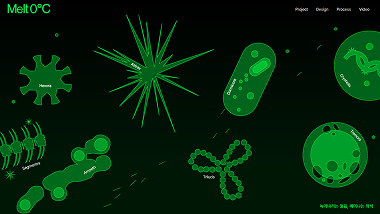
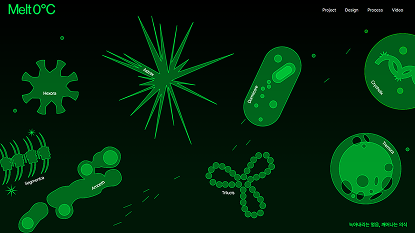
Updates

diff --git a/assets/index-Vsd_oKZ1.css b/assets/index-Vsd_oKZ1.css
@@ -1,0 +1,1 @@
+*{margin:0;padding:0;box-sizing:border-box}h1,h2,h3,h4,h5,h6,p,ul,ol,dl{margin:0;padding:0}a{text-decoration:none;color:inherit}.scroll::-webkit-scrollbar{display:none}:root{font-family:Pretendard Variable;text-rendering:optimizeLegibility;-webkit-font-smoothing:antialiased;-moz-osx-font-smoothing:grayscale}body{margin:0;min-width:320px;min-height:100vh}#root{position:relative;display:flex;width:100%;padding:0;margin:0}body{width:100%;min-height:100vh;margin:0;padding:0;background-color:#101010}header{display:flex;flex-direction:column;position:fixed;width:16.25rem;height:100%;padding:1rem 3rem;align-items:center;justify-content:space-around;background-color:#000;color:#fff}nav{display:block;font-weight:500;font-size:1.25rem;text-align:center}nav a{display:block;margin:3.5rem 0;text-decoration:none;color:#fefefe}header a:hover{color:#00ffc3}.home-title{margin-top:4rem;margin-bottom:3.5rem}h2{font-size:2.5rem}p{font-size:1.25rem;font-weight:400;color:#2b2b2b}.card{padding:2em}.read-the-docs{color:#888}main{width:100%;flex-grow:1;overflow-y:auto;text-align:center}.menu{display:flex;width:11rem;justify-content:space-between;align-items:center}.navButton{width:3rem;height:3rem;border-radius:50%;border:1px solid #969696;color:#969696;text-align:center;font-size:1rem;font-weight:400}.navButton:hover{border:1px solid #ffffff;color:#fff}.resume-section{margin-left:16.25rem;width:103rem}.title{margin-top:6rem;margin-bottom:6rem}.title h2{margin-bottom:1rem;font-size:2rem;font-weight:600;color:#fc0}.title span{margin-bottom:6rem;font-size:1.25rem;font-weight:400;color:#fff}.resume-container h3{margin-bottom:.5rem;font-size:1.5rem;font-weight:600;color:#00ffc3}.education,.activity,.work,.certificate{margin-bottom:3rem}.education-box,.activity-box,.work-box,.certificate-box{padding:2.125rem 1.5rem;border-left:2px solid #00FFC3}.resume-container{display:flex;width:62.25rem;margin:0 auto;justify-content:space-between}.resume-container-left,.resume-container-right{width:23.125rem;text-align:left}.resume-container dl dt{font-size:1.25rem;font-weight:400;color:#fff}.add-info{font-size:1rem;font-weight:300;color:#bfbfbf}.info-date{font-size:1rem;font-weight:300;color:#fff}.info-gap{margin-bottom:1.875rem}.project-card{width:415px;height:415px;border-radius:15px;overflow:hidden;background-color:#1d1d1d}.project-card:hover{box-shadow:0 0 10px #00ffc3}.project-thumbnail{width:415px;height:234px;background-color:#000}.project-thumbnail img{width:100%;opacity:.7}.project-info{position:relative;padding:20px 25px 25px 20px;text-align:left}.project-info .title-row{display:flex;justify-content:space-between;margin-bottom:1rem}.title-row h3{font-size:1.5rem;font-weight:600;color:#fff}.project-period{font-size:.85rem;line-height:1;color:#cfcfcf}.project-subtitle{font-size:1.1rem;color:#6e6e6e}.tag-list{position:absolute;top:132px}.tag-item{display:inline-block;margin-right:.5rem;padding:5px 10px;font-size:.85rem;color:#fff;border:1px solid #fff;border-radius:5px}.portfolio-section{padding:50px 0}.project-grid-container{display:grid;grid-template-columns:repeat(3,1fr);gap:30px;margin:0 auto 50px;padding:0 20px}@media (max-width: 1024px){.project-grid-container{grid-template-columns:repeat(2,1fr)}}@media (max-width: 600px){.project-grid-container{grid-template-columns:1fr}}.home-section,.about-section,.skills-section,.project-section,.contact-section{margin-left:13.54%;width:86.46%}.logo_svg{animation:logo 4s ease-in-out infinite alternate;transform-origin:50% 50%}@keyframes logo{0%{transform:rotate(0) translate(0) translateY(0)}15%{transform:rotate(35deg) translate(7px) translateY(-5px)}30%{transform:rotate(-25deg) translate(-8px) translateY(3px)}45%{transform:rotate(15deg) translate(4px) translateY(8px)}60%{transform:rotate(-40deg) translate(-10px) translateY(-8px)}75%{transform:rotate(20deg) translate(6px) translateY(2px)}to{transform:rotate(0) translate(0) translateY(0)}}.title h2{color:#fc0;margin-bottom:1rem}.title p{font-size:1.25rem;color:#fff}.home-section{height:62.5rem}.main-title{padding:25vh 10vw}.main-title .main-keyword{display:block;margin-bottom:64px;color:#fc0;font-size:8rem;font-weight:700;text-align:left;letter-spacing:1}.main-title .main-name{display:block;color:#fc0;font-size:6rem;font-weight:700;text-align:left;letter-spacing:1}.main-title .main-job{display:block;margin-bottom:64px;color:#fff;font-size:5rem;font-weight:400;text-align:right;letter-spacing:1}.home-title h2{margin-bottom:1rem;font-size:2rem;font-weight:600;color:#00ffc3}.home-title p{font-size:1.25rem;font-weight:400;color:#fff}.about-section{display:flex;flex-direction:column;height:62.5rem;justify-content:center;align-items:center;text-align:center}.about-section h2{margin-bottom:5.5rem;font-size:2.5rem;font-weight:700;line-height:1.5}.about-section h2 .text{display:block;color:#fff}.about-section h2 .text-name{color:#fc0}.about-section h2 .text-em{color:#00ffc3}.buttons{display:flex;width:42rem;justify-content:space-between}.aboutButton{width:12rem;height:3rem;border-radius:.625rem;text-align:center;font-size:1.5rem;background-color:#363636;color:#fff;line-height:3rem}.skills-section{display:flex;flex-direction:column;height:62.5rem}.skills-box{width:100px;height:100px;background-color:#1d1d1d;border-radius:15px}.skill-icon.html{color:#e44d26}.skill-icon.css{color:#1572b6}.skill-icon.js{color:#f7df1e}.skill-icon.react{color:#61dafb}.project-section,.contact-section{display:flex;flex-direction:column;height:62.5rem}.modal-backdrop{display:flex;position:fixed;top:0;left:0;width:100vw;height:100vh;background-color:#00000080;align-items:center;justify-content:center;z-index:1000}.modal-content{position:relative;width:1321px;height:764px;padding:60px;border-radius:20px;background-color:#1d1d1d;color:#fff;overflow-y:auto}.modal-close-button{position:absolute;top:30px;right:30px;font-size:2rem;color:#fff}.modal-top-info{display:flex;justify-content:space-between;margin-bottom:40px}.infoContent{width:610px}.projectTitle{font-size:2rem;color:#fff;margin-bottom:18px}.subtitle{font-size:1.15rem;color:#848484;margin-bottom:18px}.projectInfo{font-size:1rem;color:#fff;line-height:1.8;margin-bottom:18px}.modal-tag-list{margin-bottom:18px}.modal-tag-item{display:inline-block;margin-right:.5rem;padding:5px 10px;font-size:.85rem;color:#fff;border:1px solid #fff;border-radius:5px}.bottomInfo{display:flex;justify-content:space-between}.projectDate,.projectType,.projectMembers,.projectLink{display:flex;flex-direction:column}.bottom_title{font-size:1.25rem;font-weight:700;margin-bottom:1rem;color:#fff;margin-bottom:1.25rem}.bottom_subtitl{font-size:1rem;font-weight:700;margin-bottom:1rem;color:#fff}

diff --git a/index.html b/index.html
@@ -24,8 +24,8 @@
         }
       }(window.location))
     </script>
-    <script type="module" crossorigin src="/react-portfolio/assets/index-NJPRTG5q.js"></script>
-    <link rel="stylesheet" crossorigin href="/react-portfolio/assets/index-BftPr2MY.css">
+    <script type="module" crossorigin src="/react-portfolio/assets/index-CaXVkq0T.js"></script>
+    <link rel="stylesheet" crossorigin href="/react-portfolio/assets/index-Vsd_oKZ1.css">
   </head>
   <body>
     <div id="root"></div>
